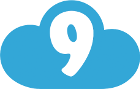
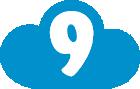
Fixed transparency issue with the blue Cloud9 texture

diff --git a/MeteoxQuest/cloud9_enemy.cpp b/MeteoxQuest/cloud9_enemy.cpp
@@ -14,7 +14,7 @@ sf::Texture* Cloud9Enemy::textures_[] = {
 	Game::resource_handler_.
 	add_texture(texture_name_ + "blue.png")
 };
-const sf::Vector2f Cloud9Enemy::size_ = sf::Vector2f(80, 83);
+const sf::Vector2f Cloud9Enemy::size_ = sf::Vector2f(140, 89);
 const float	Cloud9Enemy::movespeed_ = 100;
 const float Cloud9Enemy::frame_delay_ = 0.1f;
 
